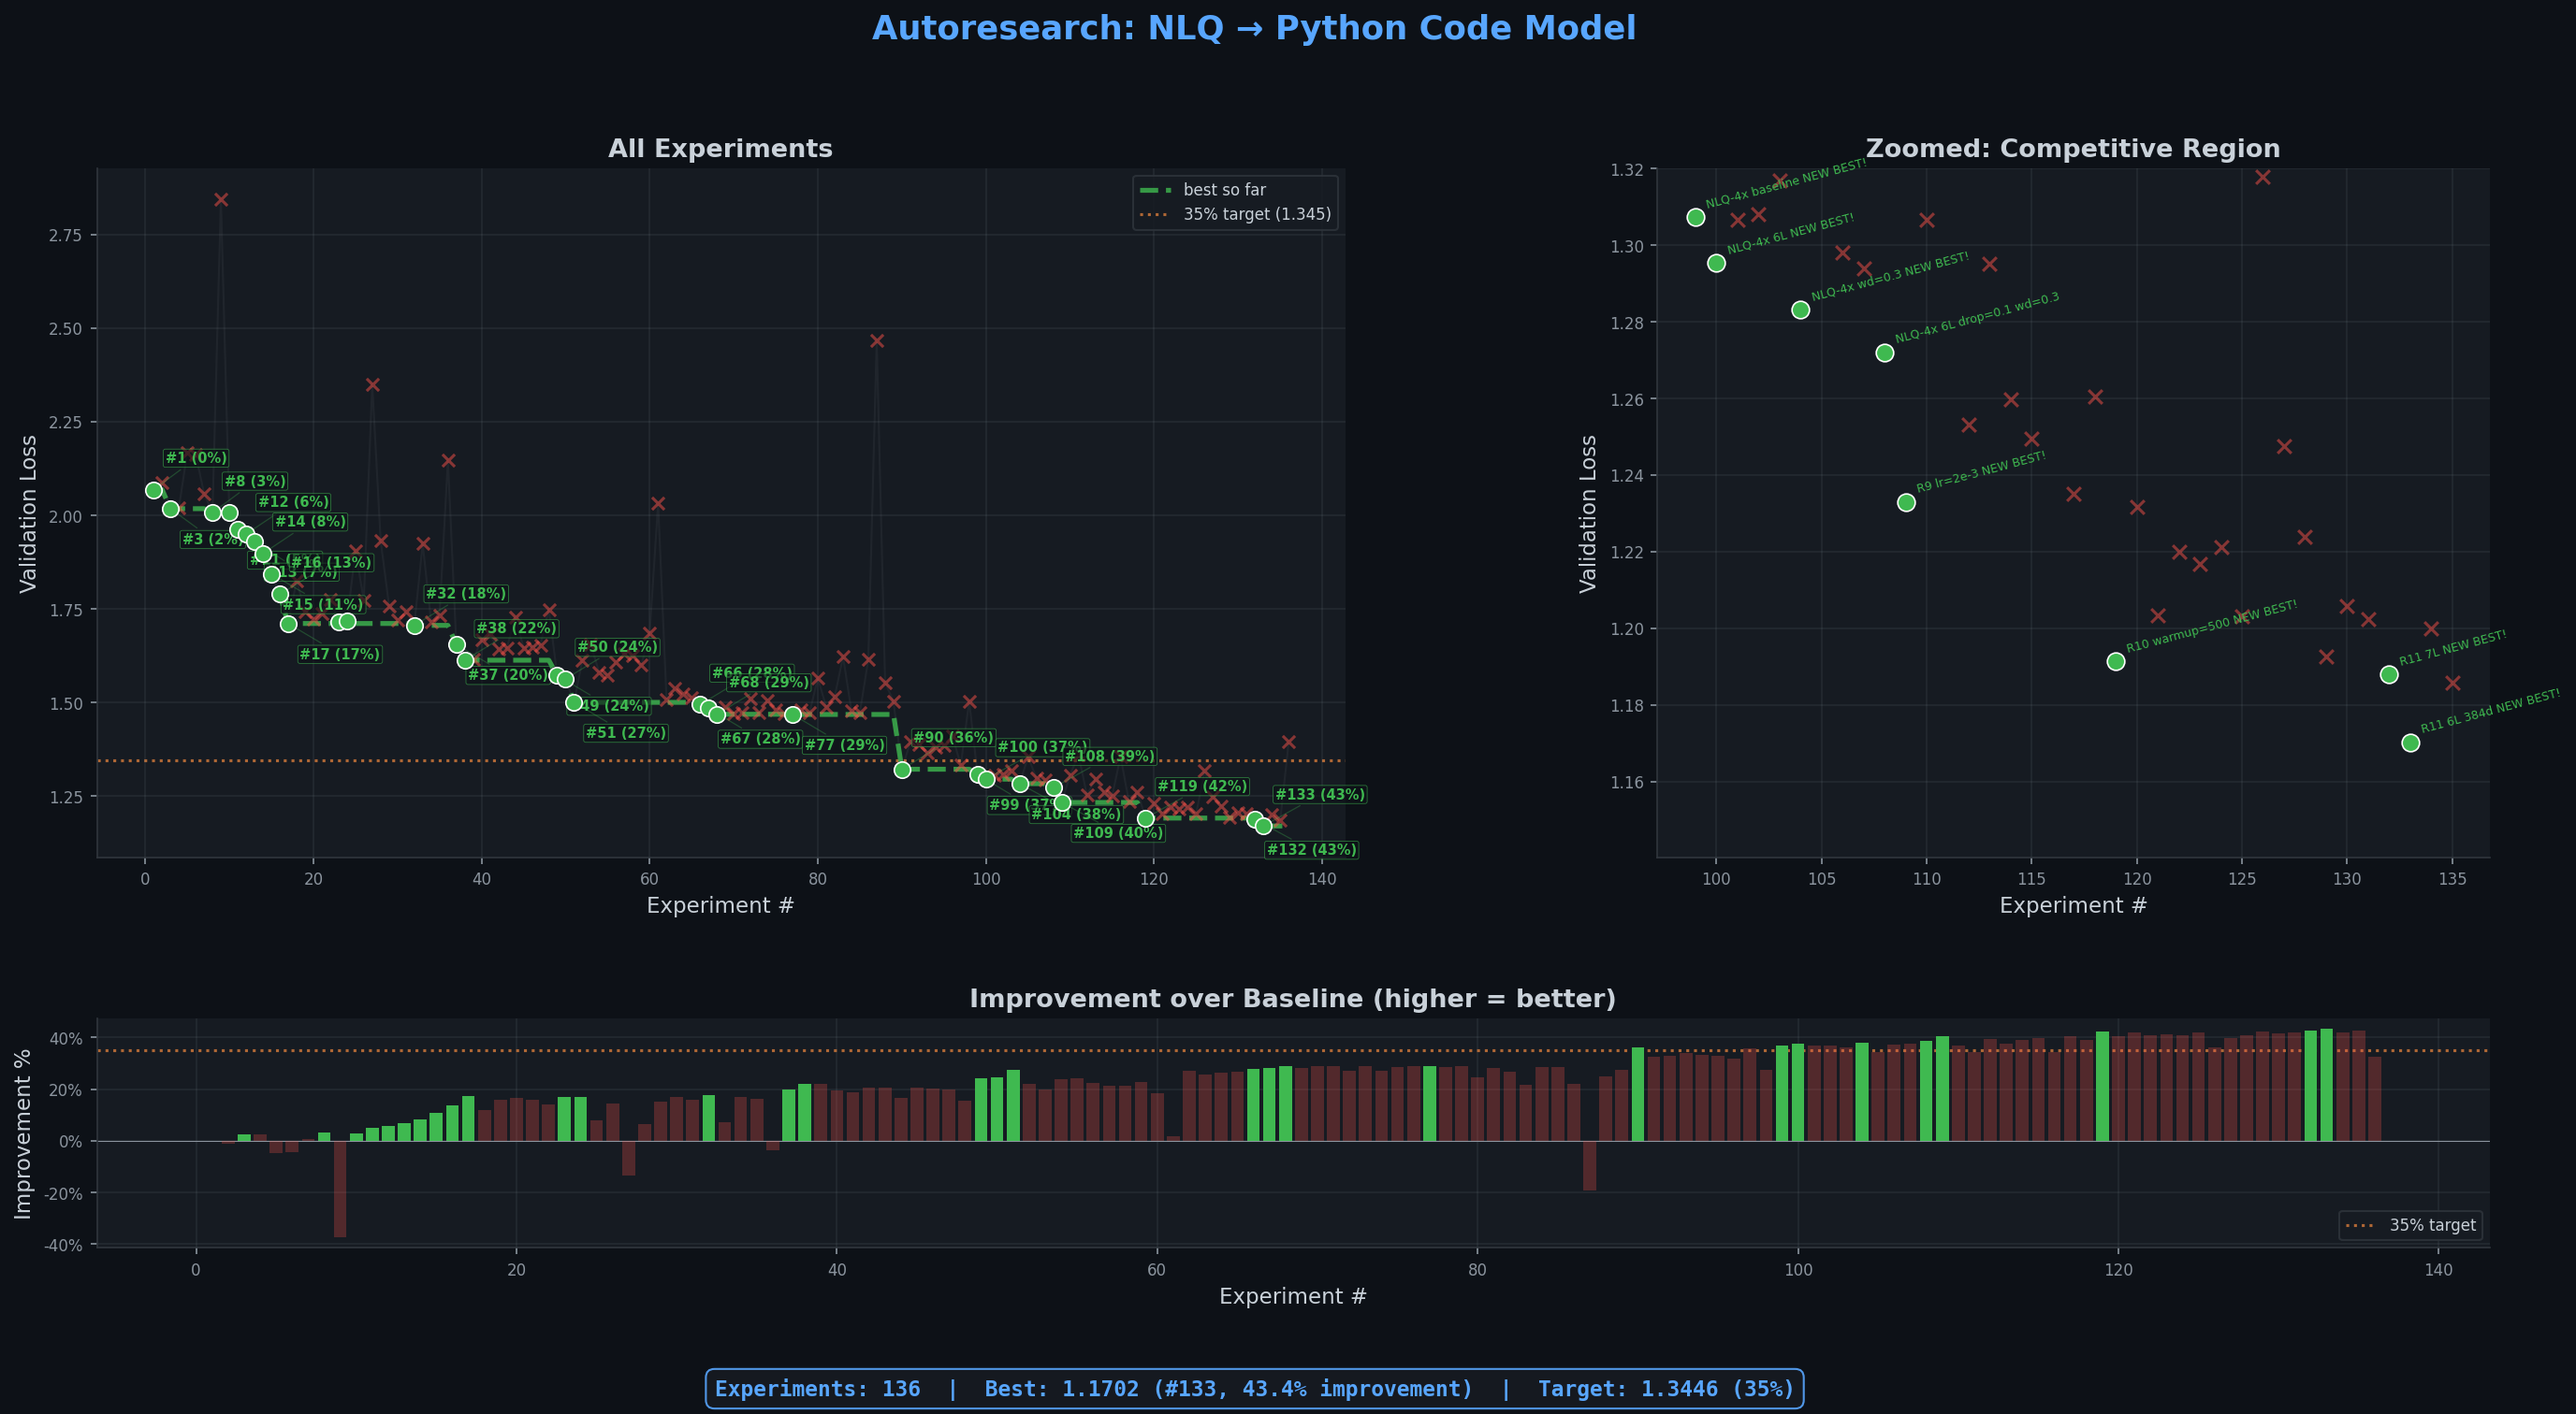
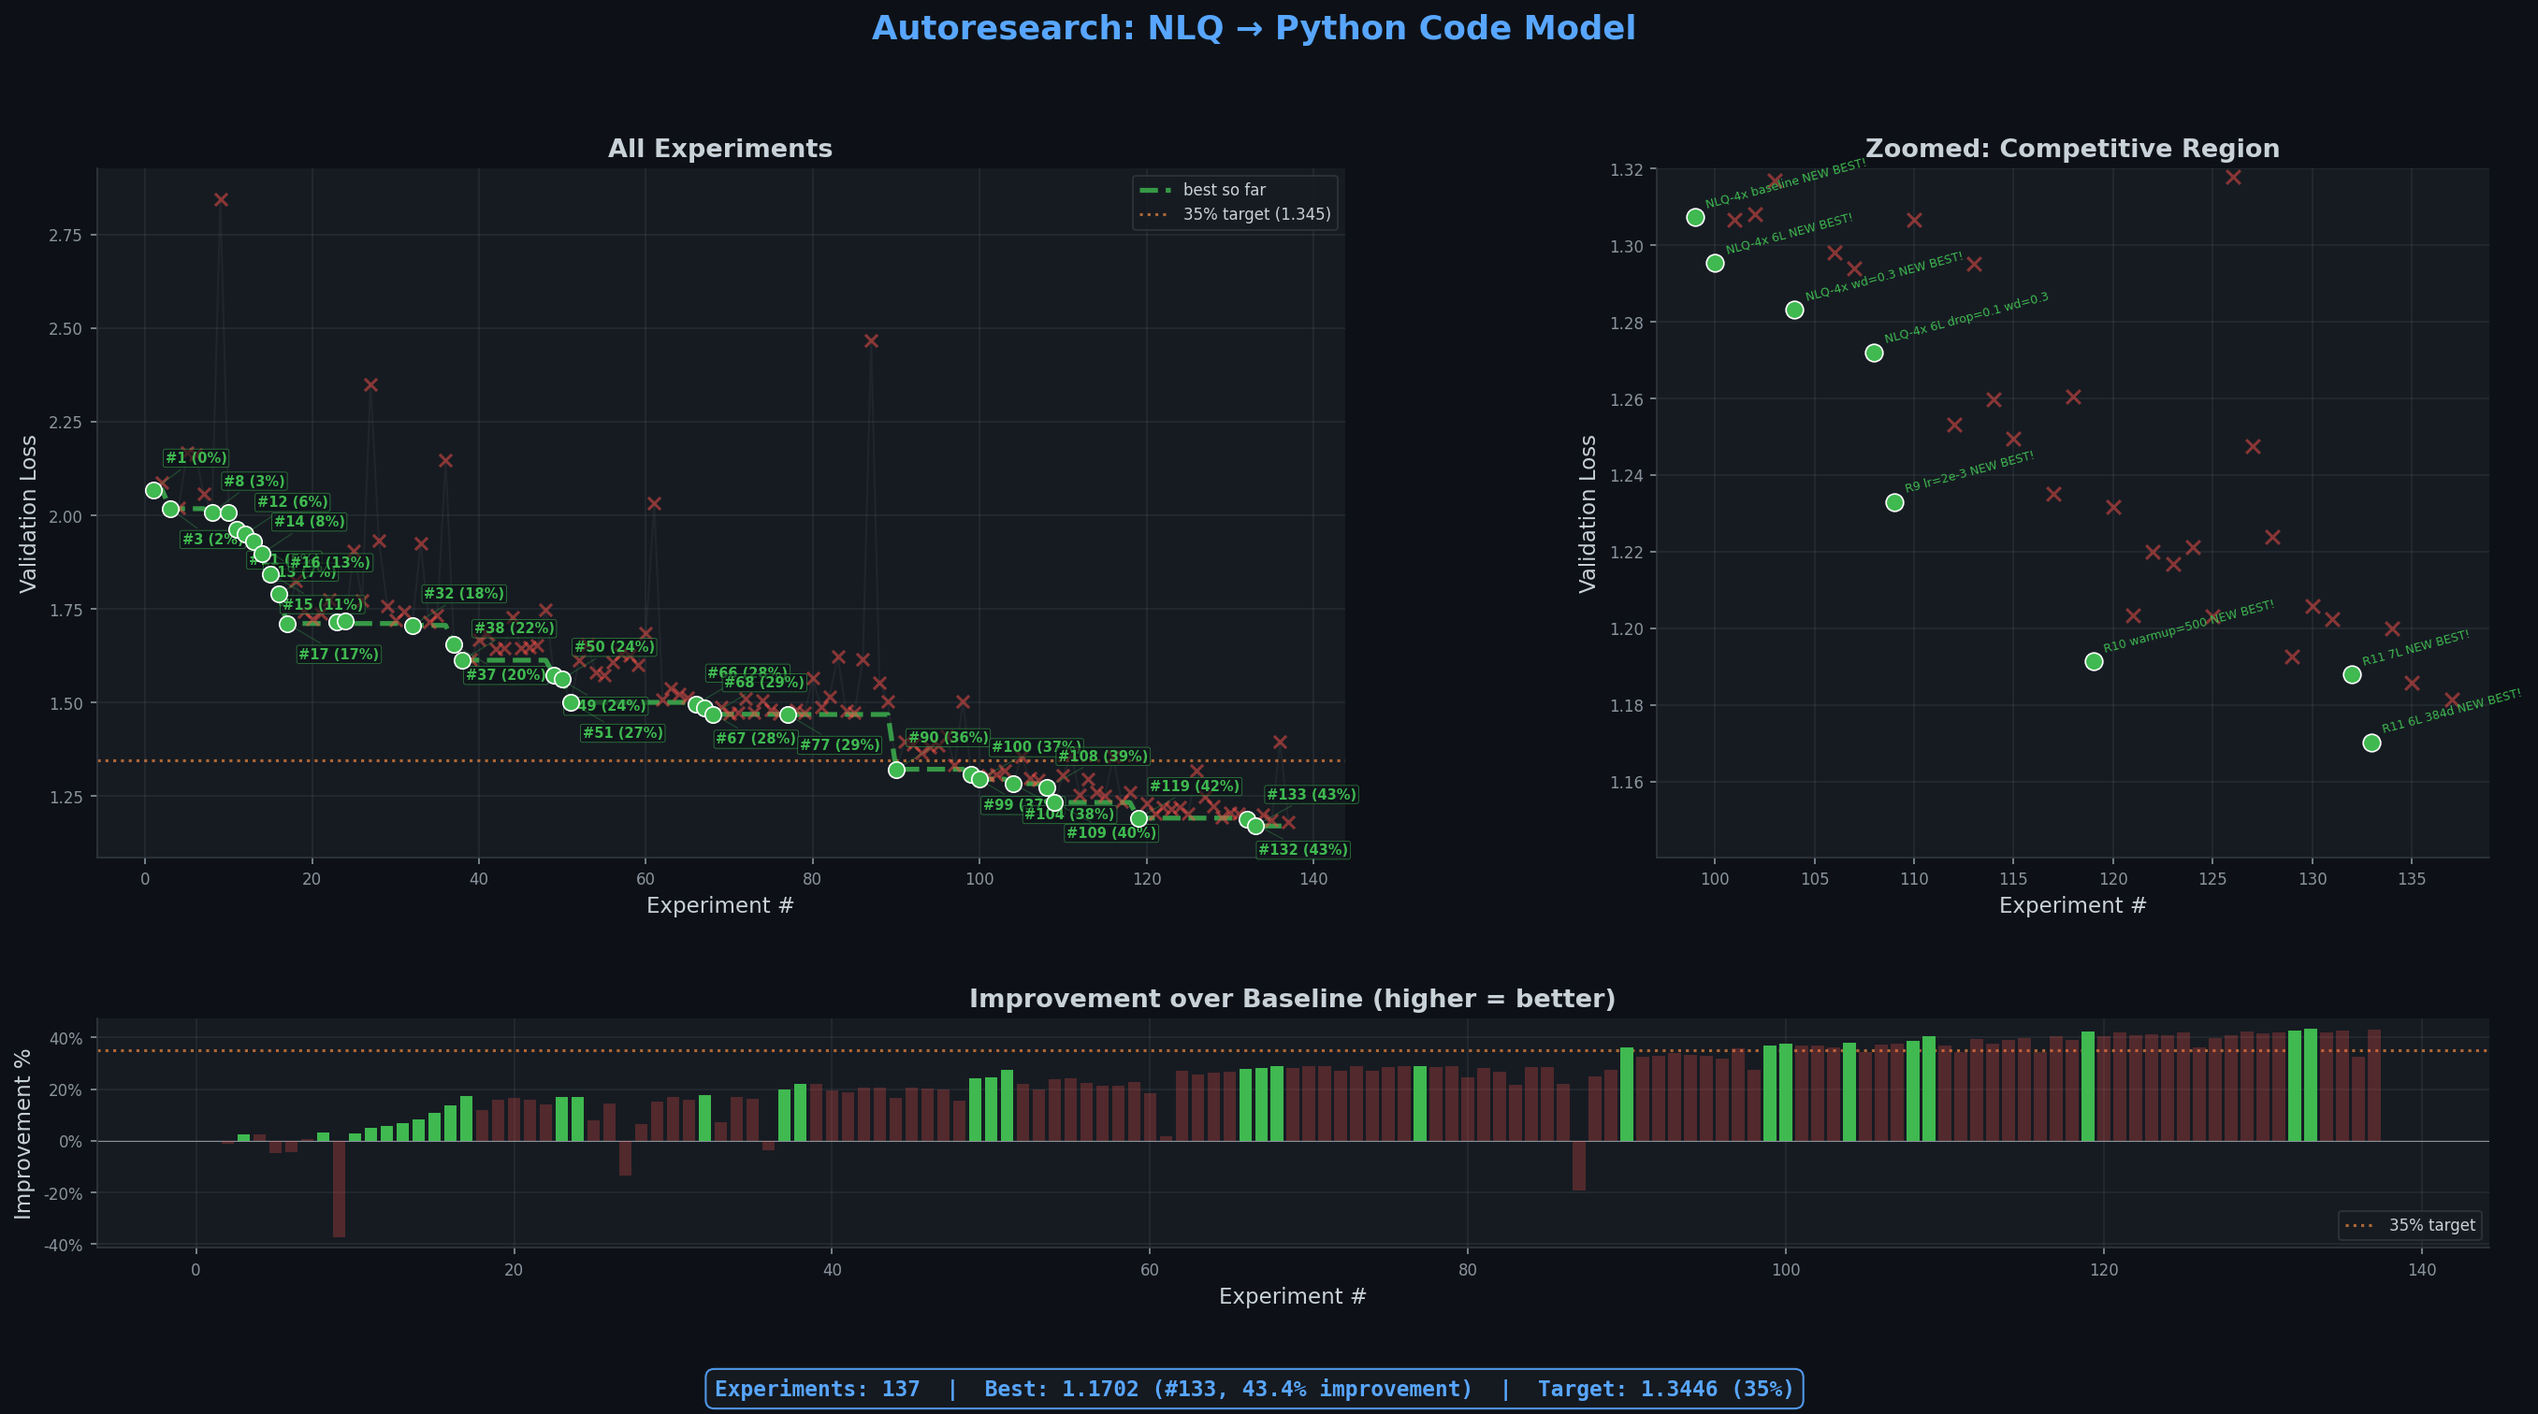
exp 137: R12 lr=1.5e-3 (val=1.1813, 42.9%)

diff --git a/train_mlx.py b/train_mlx.py
@@ -37,7 +37,7 @@ TOKENIZER_DIR = os.path.join(CACHE_DIR, "tokenizer")
 VOCAB_SIZE = 2048
 MAX_SEQ_LEN = 512
 DEPTH = 6
-N_EMBD = 320
+N_EMBD = 384
 HEAD_DIM = 64
 N_HEAD = N_EMBD // HEAD_DIM  # 5
 N_KV_HEAD = N_HEAD
